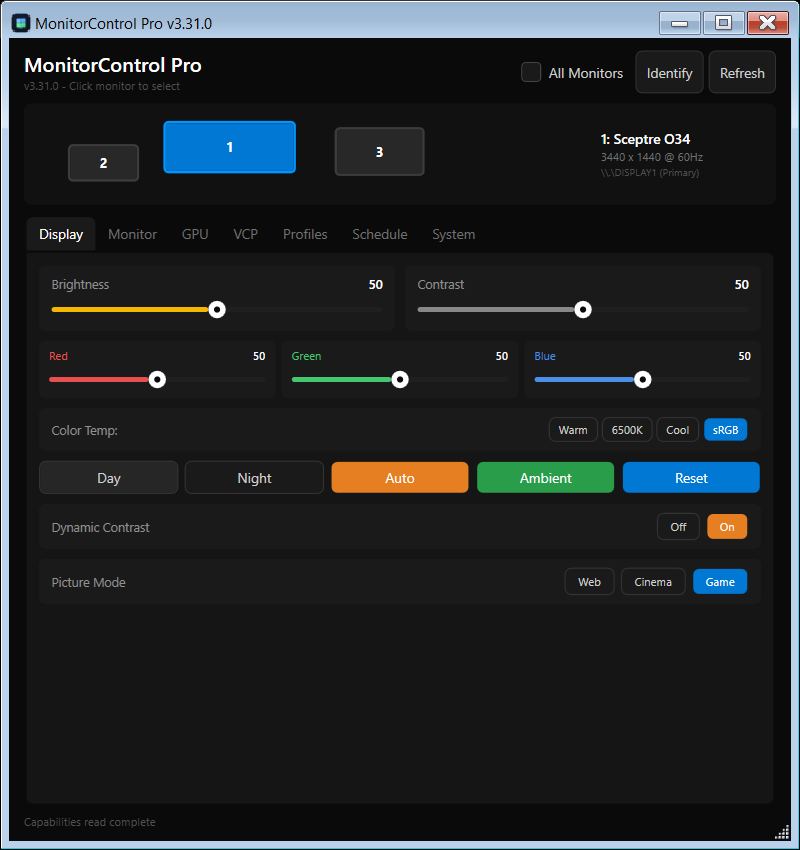
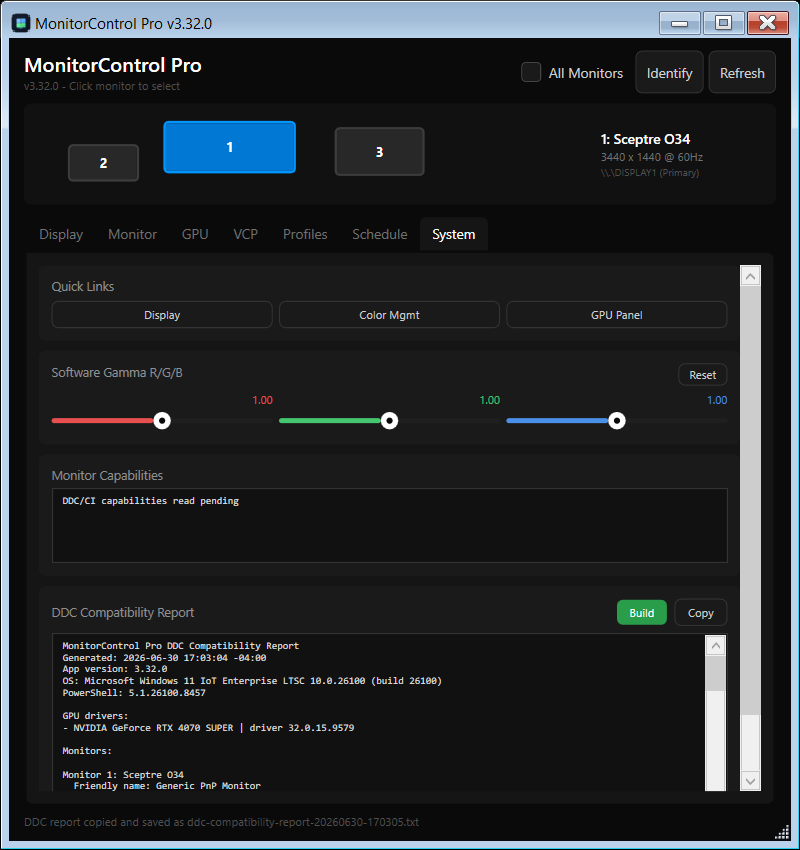
feat: add ddc compatibility report

diff --git a/README.md b/README.md
@@ -1,7 +1,7 @@
 # MonitorControl Pro
 
 <p align="center">
-  <img src="https://img.shields.io/badge/Version-v3.31.0-brightgreen" alt="Version v3.31.0">
+  <img src="https://img.shields.io/badge/Version-v3.32.0-brightgreen" alt="Version v3.32.0">
   <img src="https://img.shields.io/badge/PowerShell-5.1+-blue?logo=powershell" alt="PowerShell 5.1+">
   <img src="https://img.shields.io/badge/Windows-10%2F11-0078D6?logo=windows" alt="Windows 10/11">
   <img src="https://img.shields.io/badge/DDC%2FCI-Supported-green" alt="DDC/CI">
@@ -54,6 +54,7 @@ A comprehensive Windows GUI utility for controlling monitor settings via DDC/CI 
 - **Portable Release ZIP** — Local release builds package the script, icon, README, LICENSE, signature status, and SHA256 checksums
 - **Nonblocking Advanced Writes** — VCP Explorer Set, color reset, and factory reset actions use queued DDC writes with deferred refresh instead of UI-thread sleeps
 - **Async Capabilities Reads** — Monitor `vcp(...)` capabilities load from a background worker after enumeration, keeping refresh responsive
+- **DDC Compatibility Report** — Builds a copyable diagnostics report with monitor identities, capability status, common VCP probe results, OS/GPU driver data, and recent DDC errors
 - **Async VCP Reads** — VCP Explorer query and scan operations run in a background worker with live scan progress
 - **Async Monitor Refresh** — Monitor brightness, contrast, color gain, volume, and sharpness reads refresh from a background worker
 - **Coalesced DDC Writes** — Slider, profile, preset, and all-monitor writes queue on a background worker so rapid UI changes do not block the WPF thread
@@ -318,6 +319,7 @@ Use **Sync Folder** to point profile storage at a OneDrive or Dropbox folder. Th
 - Some monitors have a delay (~50ms per command)
 - Certain VCP codes may not be supported by your specific monitor
 - Use the VCP Scanner to discover which features your monitor actually supports
+- Open **System** and build the **DDC Compatibility Report** before troubleshooting docks, adapters, GPU drivers, KVMs, or firmware quirks
 - Failed DDC/CI reads and writes are retried automatically and surfaced in the status bar; open **VCP Explorer** to copy the latest diagnostic summary with monitor name, VCP code, attempted value, Win32 error, and retry count
 
 ### Laptop Display Not Working

diff --git a/ROADMAP.md b/ROADMAP.md
@@ -50,13 +50,6 @@ PowerShell/WPF utility for DDC/CI monitor control â€” brightness, contrast,
 ## Research-Driven Additions
 
 ### P2
-- [ ] P2 - Add a copyable DDC compatibility report
-  Why: DDC failures are often cable, dock, driver, GPU, or monitor-firmware issues; users need a concise report before troubleshooting.
-  Evidence: ControlMyMonitor documents driver/cable/KVM error cases and a January 2026 AMD DDC/CI regression; Twinkle Tray documents dock/VGA/DVI/DDC behavior caveats.
-  Touches: monitor enumeration, capabilities read, VCP read/write probes, README troubleshooting.
-  Acceptance: A Diagnostics action exports monitor identities, capabilities length/status, tested VCP results, driver/GPU names, OS version, and recent DDC errors with no private user paths.
-  Complexity: M
-
 - [ ] P2 - Add optional local automation bridge with network-off default
   Why: Existing roadmap mentions MQTT/Home Assistant and local protocol control, but the safe foundation is a disabled-by-default localhost bridge with explicit API key and command allowlist.
   Evidence: ddc-ci-control-bridge provides MCP/MQTT patterns; Home Assistant MQTT Light defines brightness/state integration conventions.
